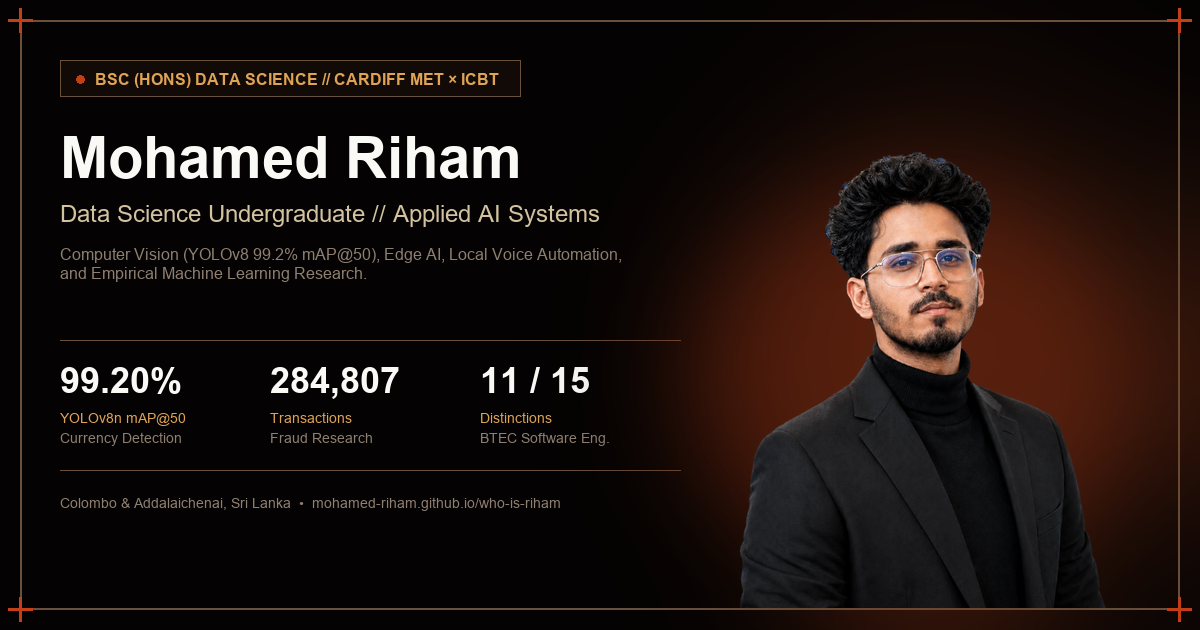
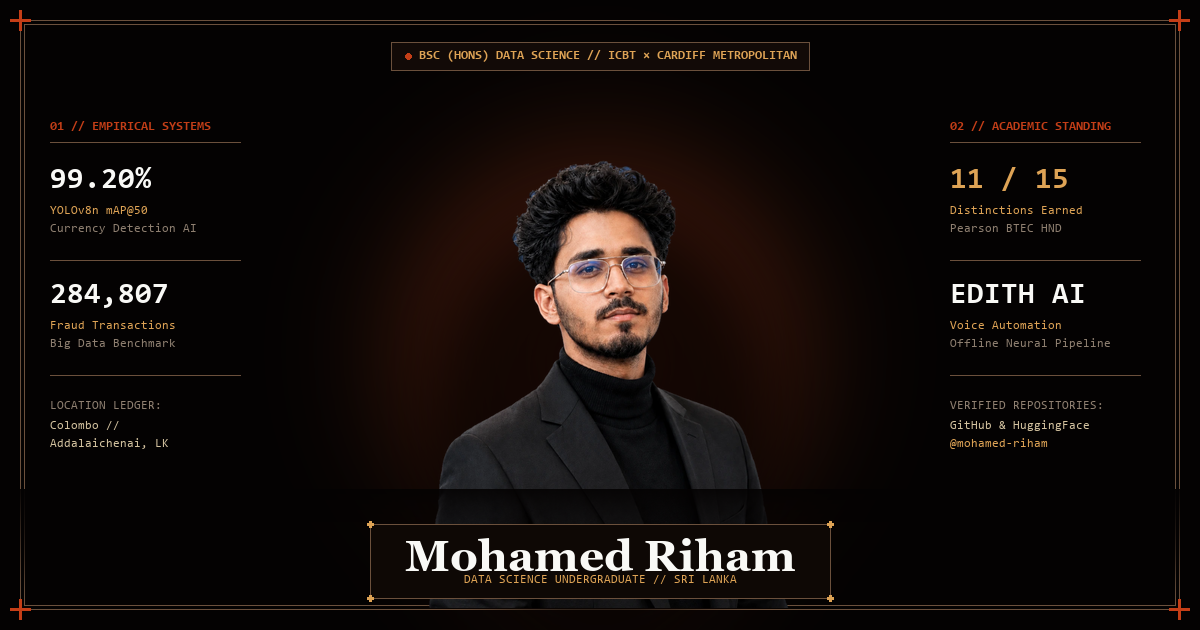
fix(og-image): optimize OpenGraph preview for WhatsApp 1:1 square crop with centered safe-zone composition

diff --git a/app/layout.tsx b/app/layout.tsx
@@ -98,7 +98,14 @@ export const metadata: Metadata = {
         url: "https://mohamed-riham.github.io/who-is-riham/og-image.png",
         width: 1200,
         height: 630,
-        alt: "Mohamed Riham (Riham) — Data Science Undergraduate & AI Systems Engineer",
+        alt: "Mohamed Riham (Riham) — Data Science Undergraduate & AI Systems",
+        type: "image/png",
+      },
+      {
+        url: "https://mohamed-riham.github.io/who-is-riham/og-image-square.png",
+        width: 600,
+        height: 600,
+        alt: "Mohamed Riham (Riham) — Data Science Undergraduate (Square Portrait)",
         type: "image/png",
       },
     ],
